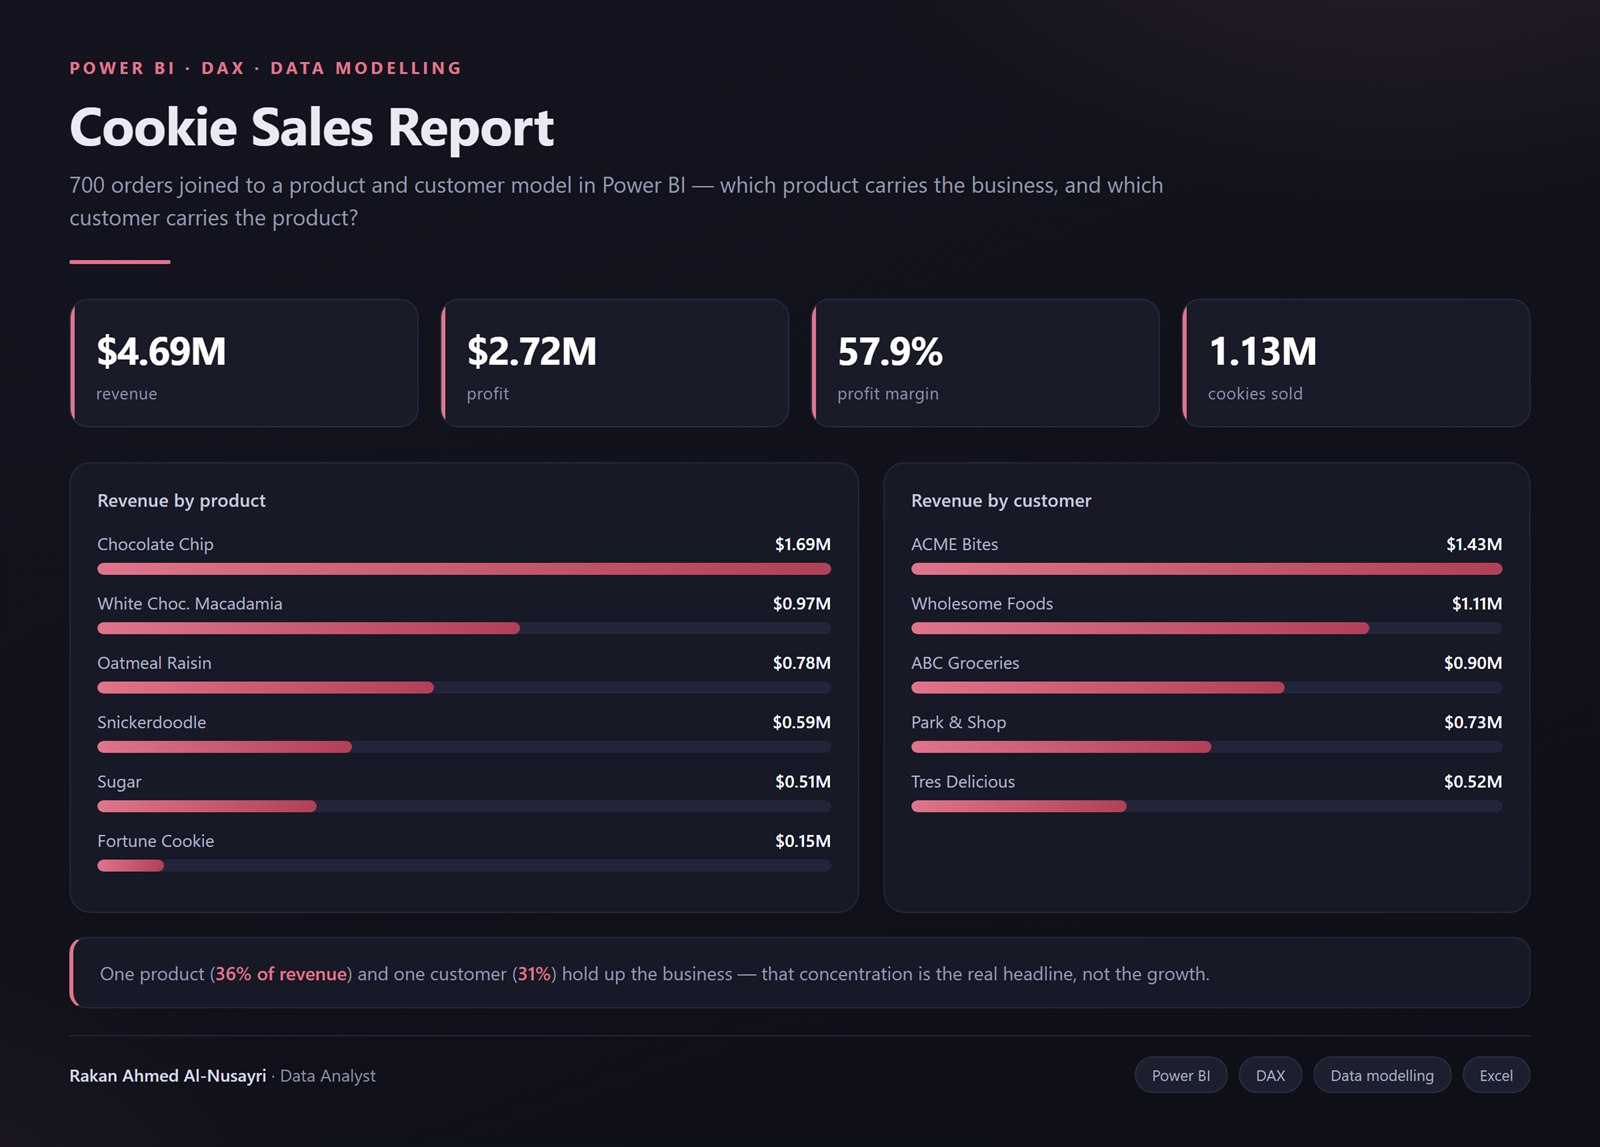
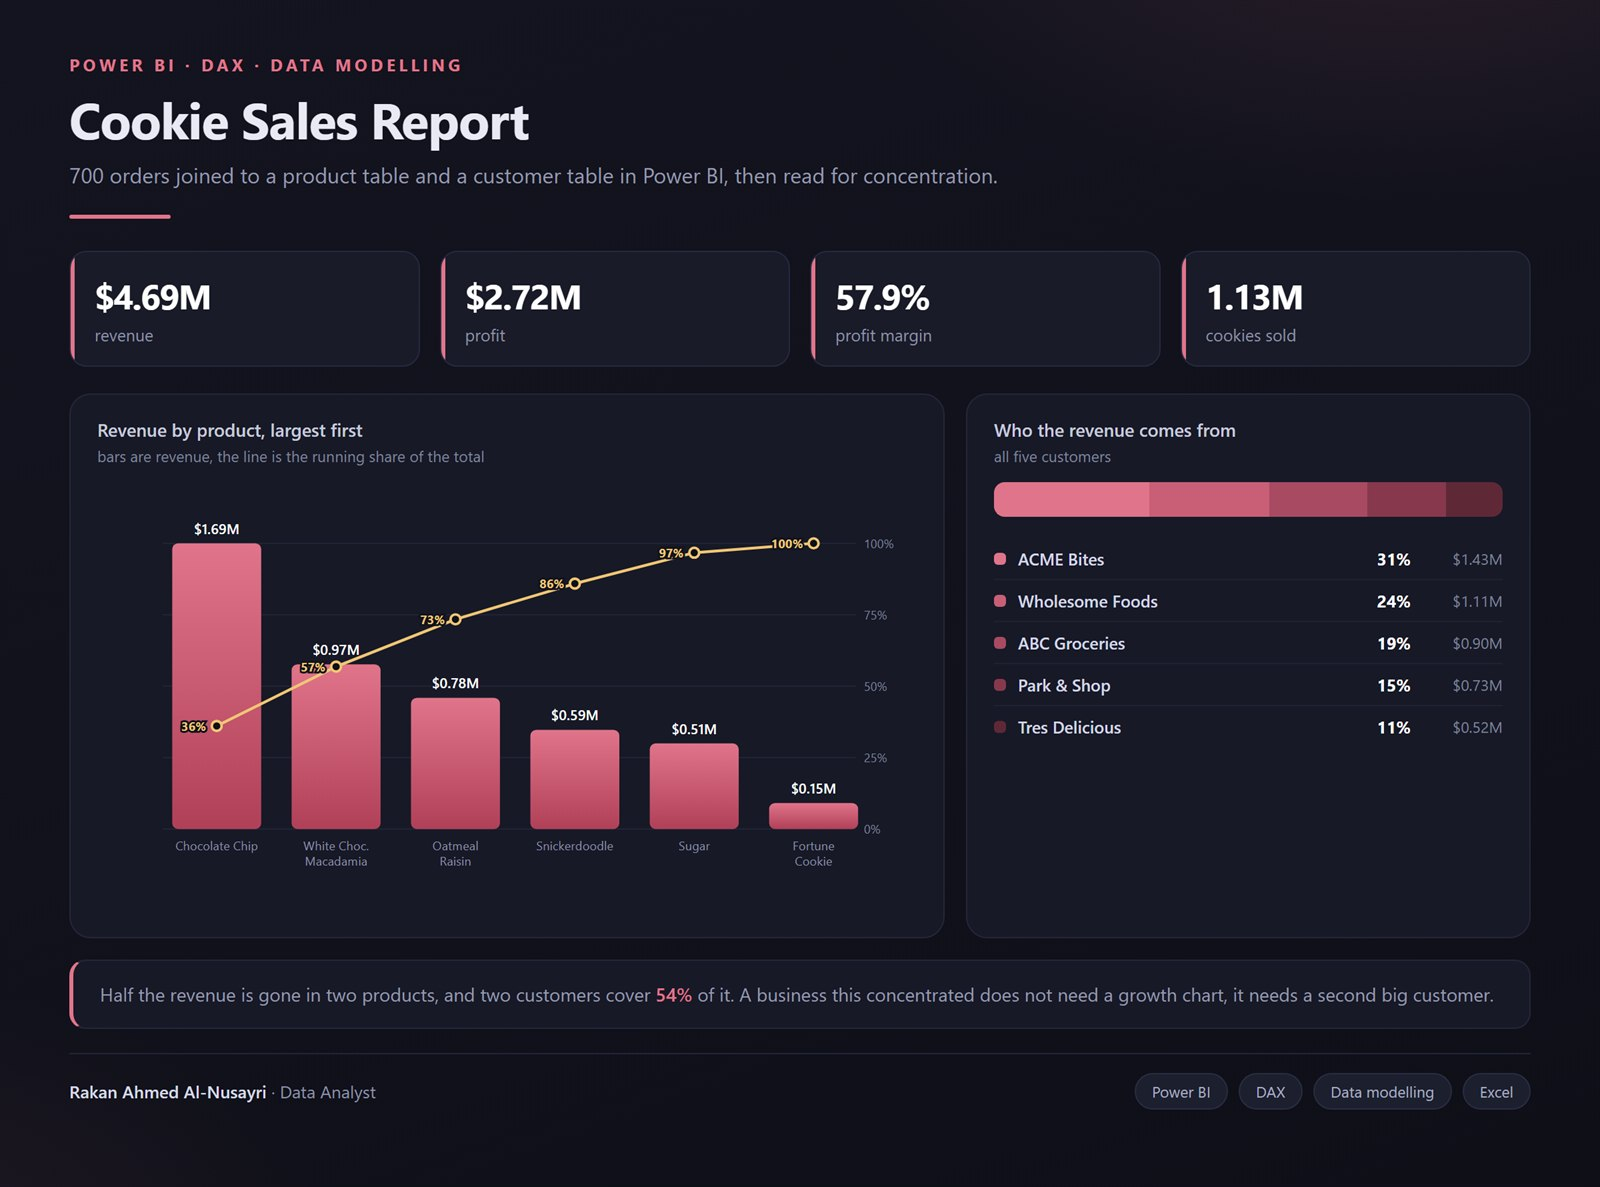
Rewrite README and rebuild the preview chart

diff --git a/README.md b/README.md
@@ -1,34 +1,52 @@
-# Cookie Sales — Power BI Report
-
-تقرير Power BI لمبيعات المخبوزات — 700 طلب و6 أصناف.
+# Cookie Sales Report
 
 ![preview](preview.jpg)
 
-**The question:** Which cookie types actually drive the business, and how do
-orders distribute across customers?
+A Power BI report built on three tables — orders, products, customers — for a
+bakery selling wholesale. Small dataset, but it makes a point about who a
+business actually depends on.
 
-**What I did:**
-- Modelled 3 sources in Power BI: `Orders` (700 rows), `Cookie Types` (6
-  products), and `Customers` — related them into a working data model
-- Built the report in Power BI Desktop (`cookie-sales-report.pbix`) with
-  measures, slicers, and visuals
+## What I found
 
-**Tools:** Power BI Desktop (data modelling, DAX measures, report design),
-Excel, CSV
+| | |
+|---|---|
+| Revenue | $4.69M |
+| Profit | $2.72M |
+| Margin | 57.9% |
+| Cookies sold | 1,125,788 |
+| Orders | 700 |
 
-## Open it
+Chocolate Chip alone is 36% of revenue. Add White Chocolate Macadamia and you're
+at 57% from two products out of six. Fortune Cookie is 3% and priced at $1
+against $5 for the others, so it moves volume without moving money.
 
-Download `cookie-sales-report.pbix` and open it in **Power BI Desktop** (free).
-The raw sources are in `data/` if you want to rebuild the model from scratch.
+The customer side is tighter still. ACME Bites is 31% of revenue and Wholesome
+Foods is 24% — 54% of the business sits with two buyers out of five.
+
+High margins on a concentrated base look healthy right up until one buyer
+leaves. That's the finding worth reporting, not the growth between 2019 and 2020.
+
+## The model
+
+Orders is the fact table. It joins to Cookie Types on product name (which
+carries the price and cost per cookie, so revenue and profit are measures, not
+stored columns) and to Customers on customer ID. Dates come in as Excel serial
+numbers and need converting before any time analysis works.
 
 ## Files
 
 ```
 cookie-sales-report.pbix   the Power BI report
-data/Orders.xlsx            700 order rows
-data/Cookie Types.xlsx       6 product types
-data/Customers.csv            customer list
+data/Orders.xlsx           700 orders
+data/Cookie Types.xlsx     price and cost per product
+data/Customers.csv         the five customers
 ```
 
+Open the `.pbix` in Power BI Desktop (free) to see the report and the model.
+
+## Tools
+
+Power BI, DAX, data modelling, Excel
+
 ---
-Rakan Ahmed Al-Nusayri · rakanalnsyry8@gmail.com
+Rakan Ahmed Al-Nusayri — [github.com/RaKaN-DaTa](https://github.com/RaKaN-DaTa)
